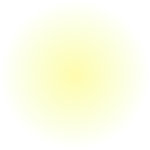
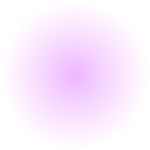
btn3 추가

diff --git a/02_Merge_functions_task/Merge_functions_task.py b/02_Merge_functions_task/Merge_functions_task.py
@@ -6,6 +6,8 @@ active_buttons = []
 
 smile_img = []
 light_img = []
+circle_image = []
+circle_choice_img = ''
 
 num = 60
 
@@ -33,6 +35,25 @@ def draw():
         light_choice_img = choice(light_img)
         image(light_choice_img, randint(0, 1280), randint(0, 600))  # width와 height를 랜덤 크기로 설정
 
+    #btn3이 활성화 되었을 경우
+    if 2 in active_buttons:
+
+        push_matrix()
+        translate(1280 / 2, 613 / 2)  # 캔버스의 중심점을 회전의 중심점으로 설정합니다
+        rotate(radians(mouse_x))  # 마우스의 x좌표에 따라 red 이미지를 회전시킵니다.
+        image(circle_image[0], -circle_image[0].width/2, -circle_image[0].height/2)
+
+        pop_matrix()
+
+        push_matrix()
+
+        translate(1280 / 2, 613 / 2)  # 캔버스의 중심점을 회전의 중심점으로 설정합니다
+        rotate(radians(mouse_y))  # 마우스의 y좌표에 따라 blue 이미지를 회전시킵니다.
+        image(circle_image[1], -circle_image[1].width/2, -circle_image[1].height/2)
+
+        pop_matrix()
+
+
     #지우개 버튼
     if 5 in active_buttons: 
         frame = True
@@ -43,13 +64,17 @@ def draw():
 
 def draw_button():
     global save_button
+
+    #일반 버튼 status
     for i in range(len(button_images)):
         if i in active_buttons:
             active_image = load_image(f"source/btn/btn{i+1}-active.png")
             image(active_image, 355+(i*99), 627, 75, 75)  
         else:
             image(button_images[i], 355+(i*99), 627, 75, 75)  
+            
 
+    #save 버튼 status
     if save_button == 'deactive':
         image(save_deactive_images, 1175, 628, 75, 75)
     else:
@@ -81,12 +106,18 @@ def load_button_images():
         button_image = load_image(f"source/btn/btn{i+1}-deactive.png")
         button_images.append(button_image)
 
+    #btn3 - circle
+    for i in ['blue', 'red', 'yellow']:
+        circle_image.append(load_image(f"source/btn3_circle/circle-{i}.png"))
 
-    
+
 
 def mouse_pressed():
     global save_button
+    global circle_choice_img
 
+
+    #일반 버튼들 상태 전환
     for i in range(len(button_images)):
         button_x = 355 + (i * 99)
         button_y = 613
@@ -102,6 +133,7 @@ def mouse_pressed():
     save_btn_x = 1175
     save_btn_y = 628
 
+    #save 버튼 상태 전환
     if save_btn_x <= mouse_x <= save_btn_x + button_width and save_btn_y <= mouse_y <= save_btn_y + button_height:
         if save_button == 'deactive':
             save_button = 'active'

diff --git a/02_Merge_functions_task/test.py b/02_Merge_functions_task/test.py
@@ -1,0 +1,40 @@
+from p5 import *
+
+previous_mouse_x = 0
+
+def setup():
+    size(800, 800)
+
+def draw():
+    global previous_mouse_x
+
+    if abs(mouse_x - previous_mouse_x) > 1:
+        background(255)  # background는 draw 함수 내에서 호출되어야 합니다.
+        create_and_draw_shape()
+        previous_mouse_x = mouse_x
+
+def create_and_draw_shape():
+    translate(width/2, height/2)
+
+    start_angle = map_value(mouse_x, 0, width, 0, 360)
+    num_lines = 720
+
+    for angle in range(num_lines):
+        adjusted_angle = (angle + start_angle) % num_lines
+        r = map_value(adjusted_angle, 0, num_lines - 1, 255, 105)
+        stroke(r, 105, 180)
+        stroke_weight(3)
+
+        x = cos(radians(adjusted_angle)) * (width/4)
+        y = sin(radians(adjusted_angle)) * (width/4)
+
+        line(0, 0, x, y)
+
+def map_value(value, leftMin, leftMax, rightMin, rightMax):
+    leftSpan = leftMax - leftMin
+    rightSpan = rightMax - rightMin
+
+    valueScaled = float(value - leftMin) / float(leftSpan)
+    return rightMin + (valueScaled * rightSpan)
+
+run()
